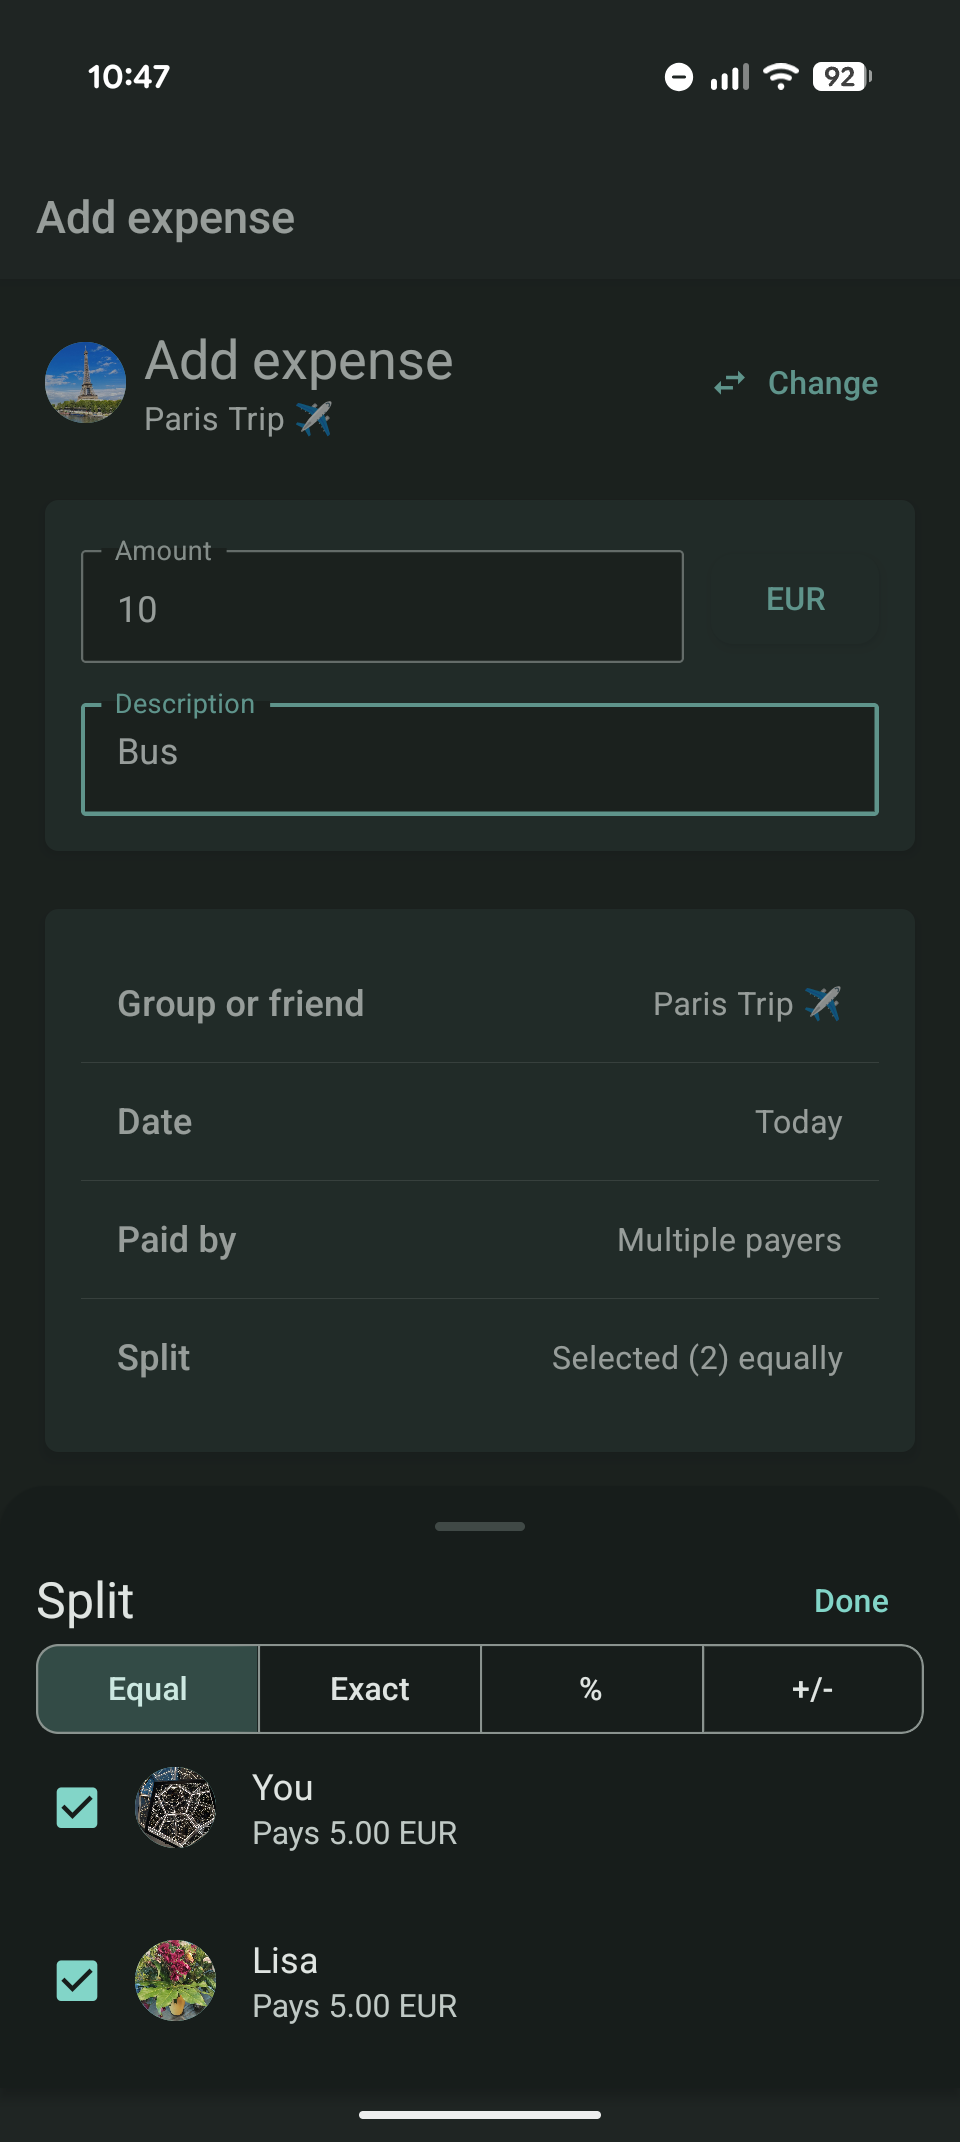
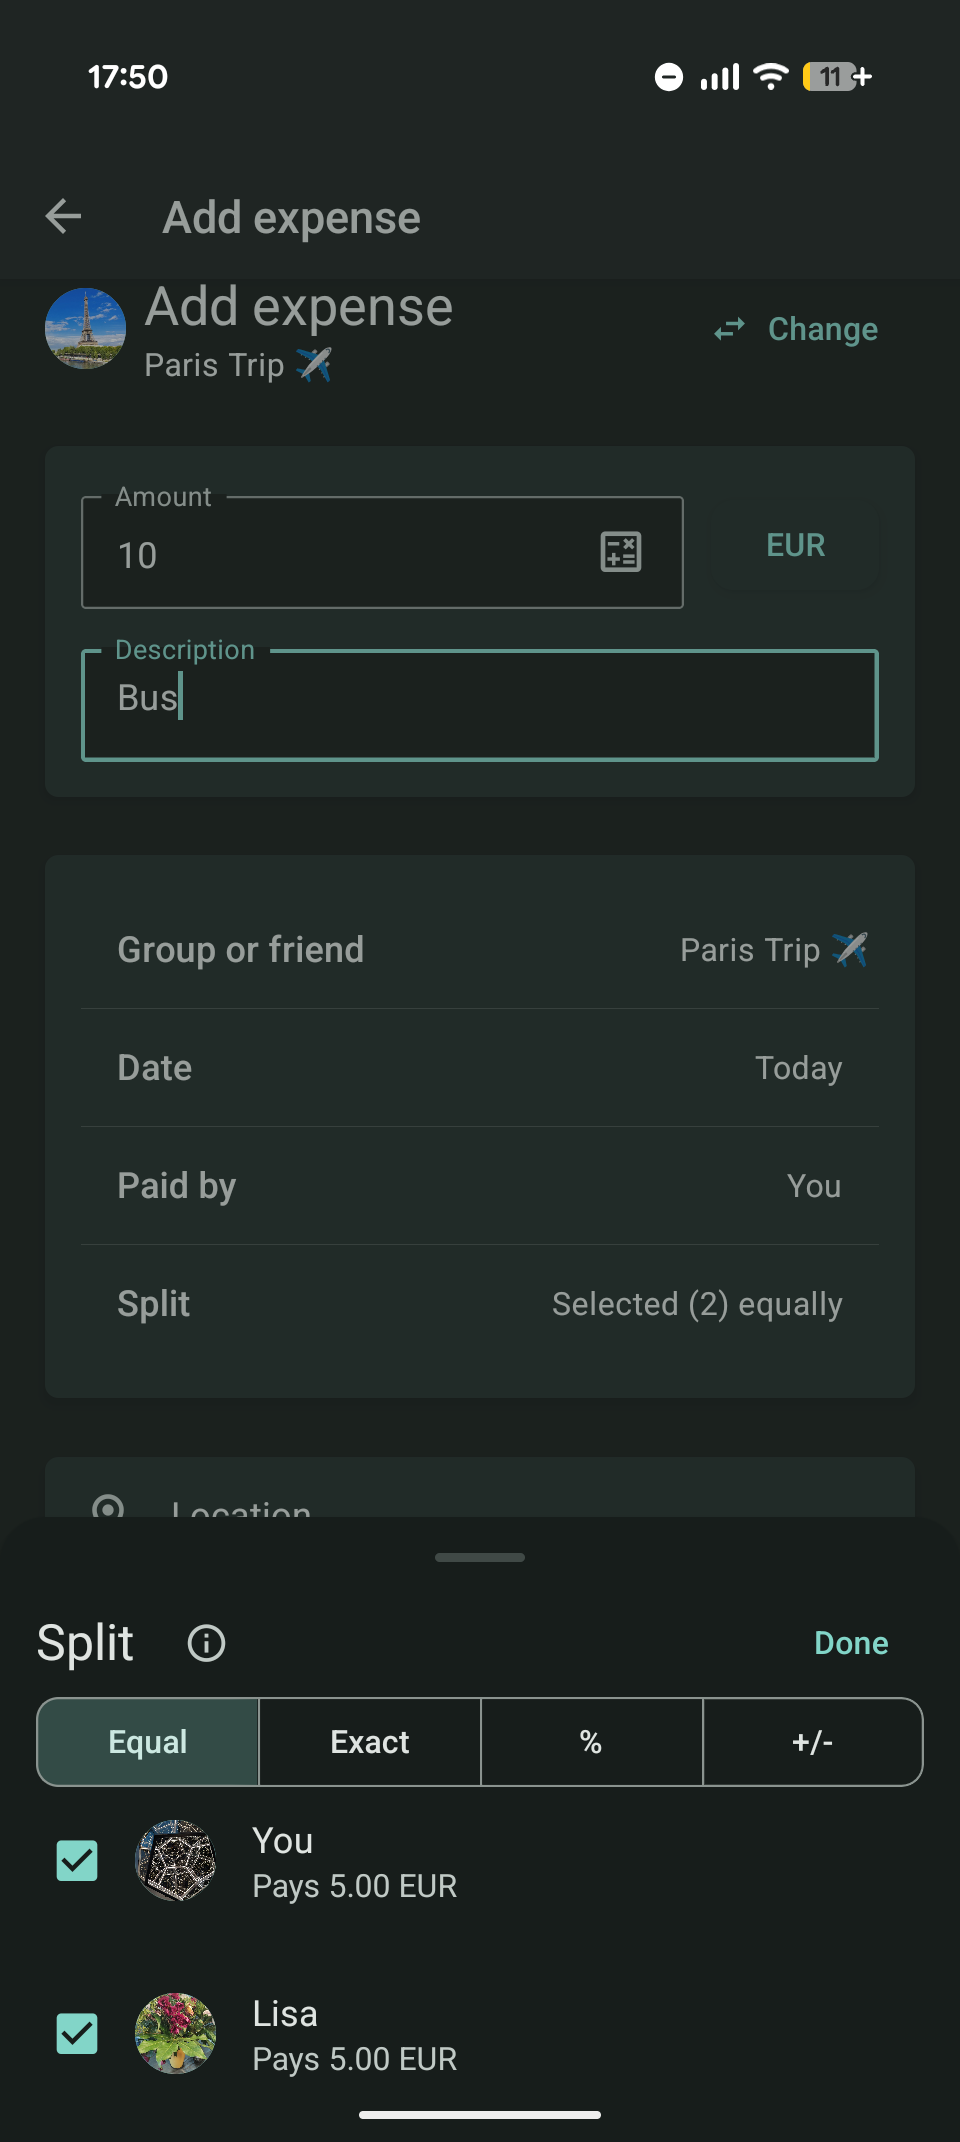
chore: add new features to landingpage

diff --git a/frontend-landing/src/content.ts b/frontend-landing/src/content.ts
@@ -85,6 +85,28 @@ const en: Content = {
         ]
       },
       {
+        shot: "calculator",
+        eyebrow: "Quick calculations",
+        title: "Do the math where you enter the amount",
+        body: "Most money fields include a small calculator, so you can add things up without leaving Splex.",
+        points: [
+          "Calculate totals before saving an expense or settlement",
+          "Useful for receipts, partial payments, and quick ad-hoc sums",
+          "No switching to another app just to check a number"
+        ]
+      },
+      {
+        shot: "currency-converter",
+        eyebrow: "Currency converter",
+        title: "Convert currencies when you need a quick check",
+        body: "Expenses are converted automatically, but the same currency data also powers a small converter for quick checks on a trip.",
+        points: [
+          "Convert between supported currencies in the app",
+          "Cached rates stay available when you are offline",
+          "Useful when you want to get a better feel for local prices"
+        ]
+      },
+      {
         shot: "group-balances",
         eyebrow: "Balances & settlements",
         title: "Always know who owes whom",
@@ -126,6 +148,8 @@ const en: Content = {
       { shot: "overview", label: "Overview" },
       { shot: "group", label: "Group expenses" },
       { shot: "add-expense", label: "Add expense" },
+      { shot: "calculator", label: "Calculator" },
+      { shot: "currency-converter", label: "Currency converter" },
       { shot: "group-balances", label: "Balances" },
       { shot: "group-statistics", label: "Statistics" },
       { shot: "activity", label: "Activity" }
@@ -218,6 +242,28 @@ const de: Content = {
         ]
       },
       {
+        shot: "calculator",
+        eyebrow: "Schnelle Zwischenrechnungen",
+        title: "Rechne direkt dort, wo du Geldbeträge eingibst",
+        body: "Die meisten Zahlenfelder haben einen kleinen Rechner. So kannst du etwas ausrechnen, ohne Splex zu verlassen.",
+        points: [
+          "Summen vor dem Speichern einer Ausgabe oder Ausgleichszahlung berechnen",
+          "Praktisch für Belege, Teilbeträge und kurze Rechnungen zwischendurch",
+          "Kein Wechsel in eine andere App, nur um eine Zahl zu prüfen"
+        ]
+      },
+      {
+        shot: "currency-converter",
+        eyebrow: "Währungsrechner",
+        title: "Preise unterwegs schnell umrechnen",
+        body: "Ausgaben werden automatisch umgerechnet. Mit denselben Kursdaten gibt es zusätzlich einen kleinen Rechner für kurze Checks auf Reisen.",
+        points: [
+          "Zwischen den unterstützten Währungen in der App umrechnen",
+          "Zwischengespeicherte Kurse bleiben auch offline verfügbar",
+          "Praktisch, wenn du ein besseres Gefühl für lokale Preise bekommen willst"
+        ]
+      },
+      {
         shot: "group-balances",
         eyebrow: "Salden & Ausgleich",
         title: "Immer wissen, wer wem etwas schuldet",
@@ -259,6 +305,8 @@ const de: Content = {
       { shot: "overview", label: "Übersicht" },
       { shot: "group", label: "Gruppenausgaben" },
       { shot: "add-expense", label: "Ausgabe hinzufügen" },
+      { shot: "calculator", label: "Rechner" },
+      { shot: "currency-converter", label: "Währungsrechner" },
       { shot: "group-balances", label: "Salden" },
       { shot: "group-statistics", label: "Statistiken" },
       { shot: "activity", label: "Aktivität" }